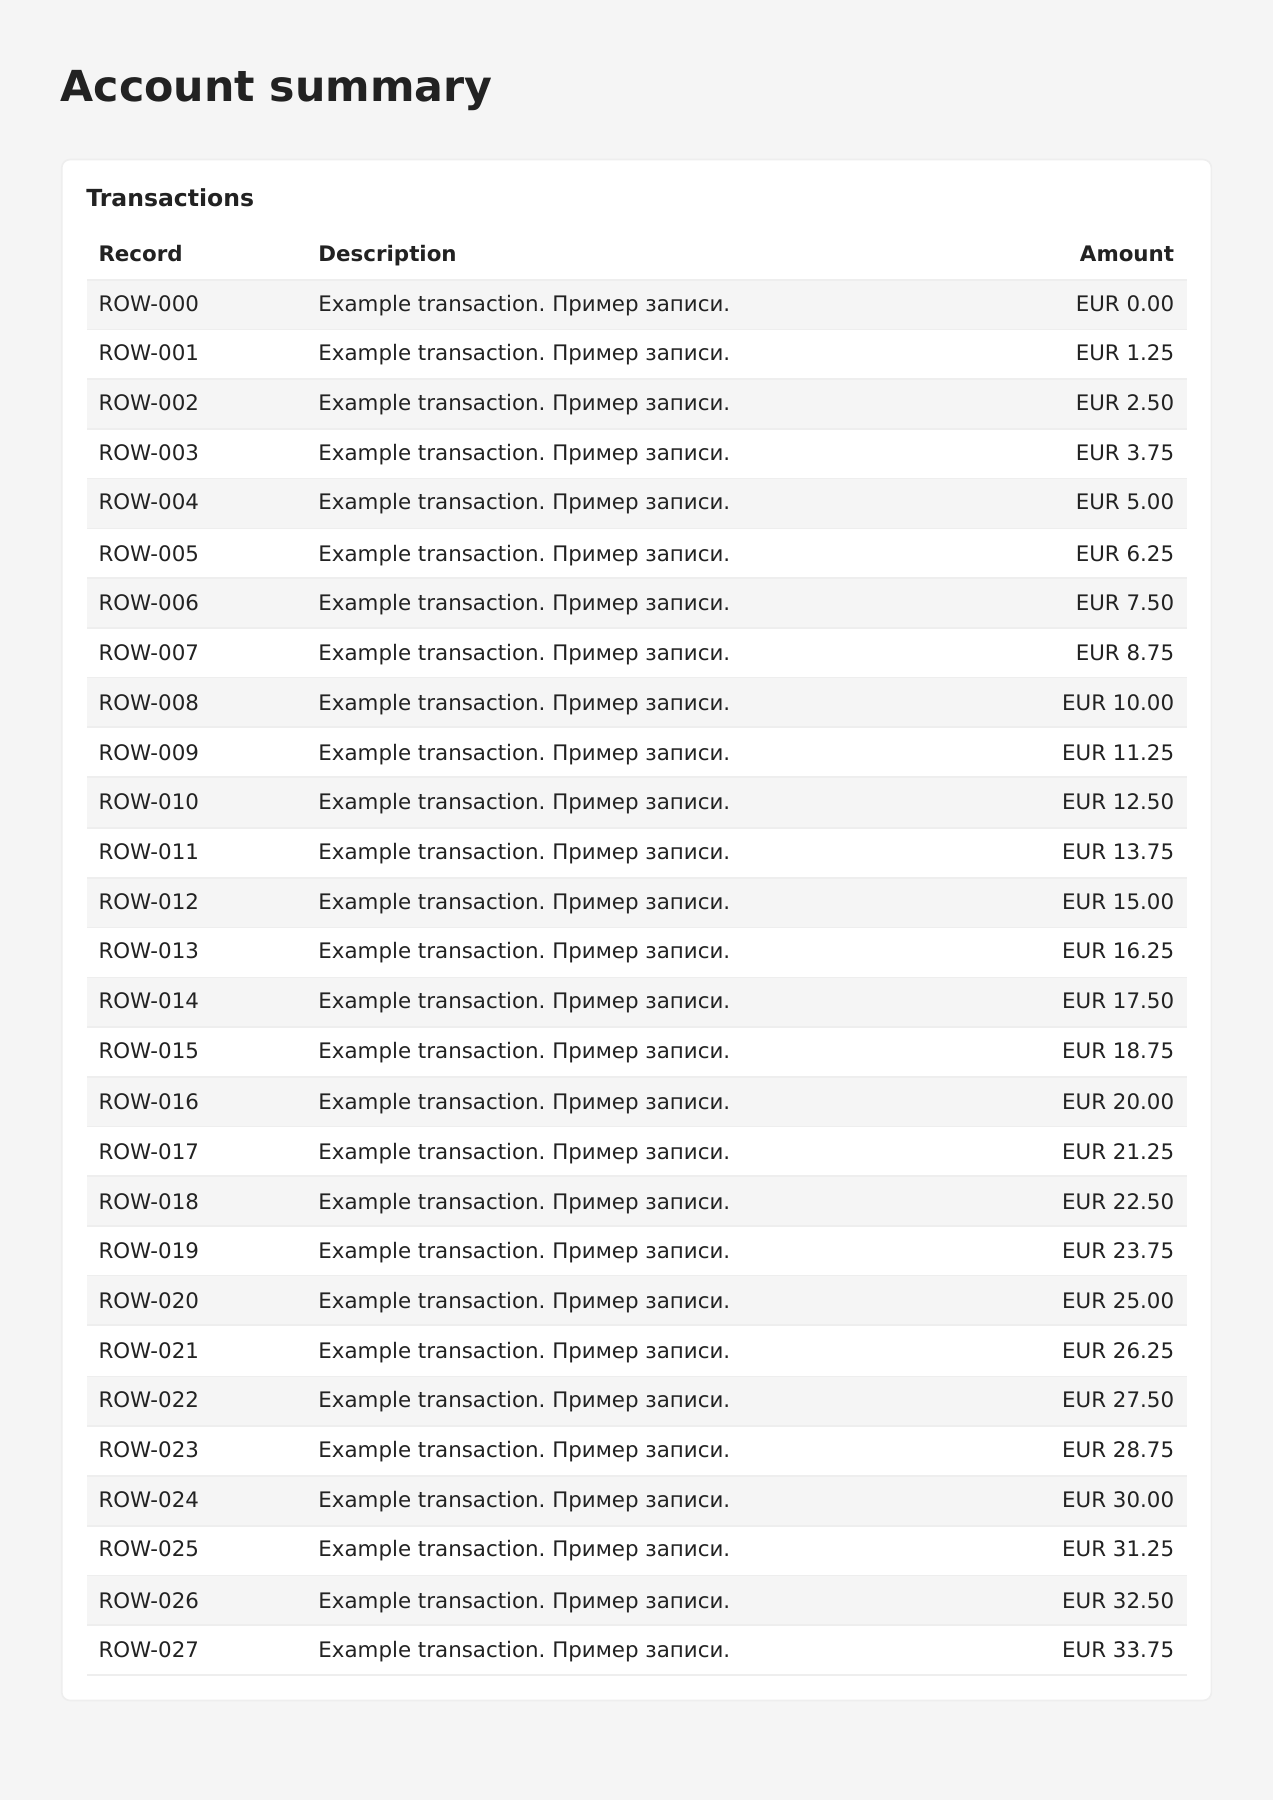
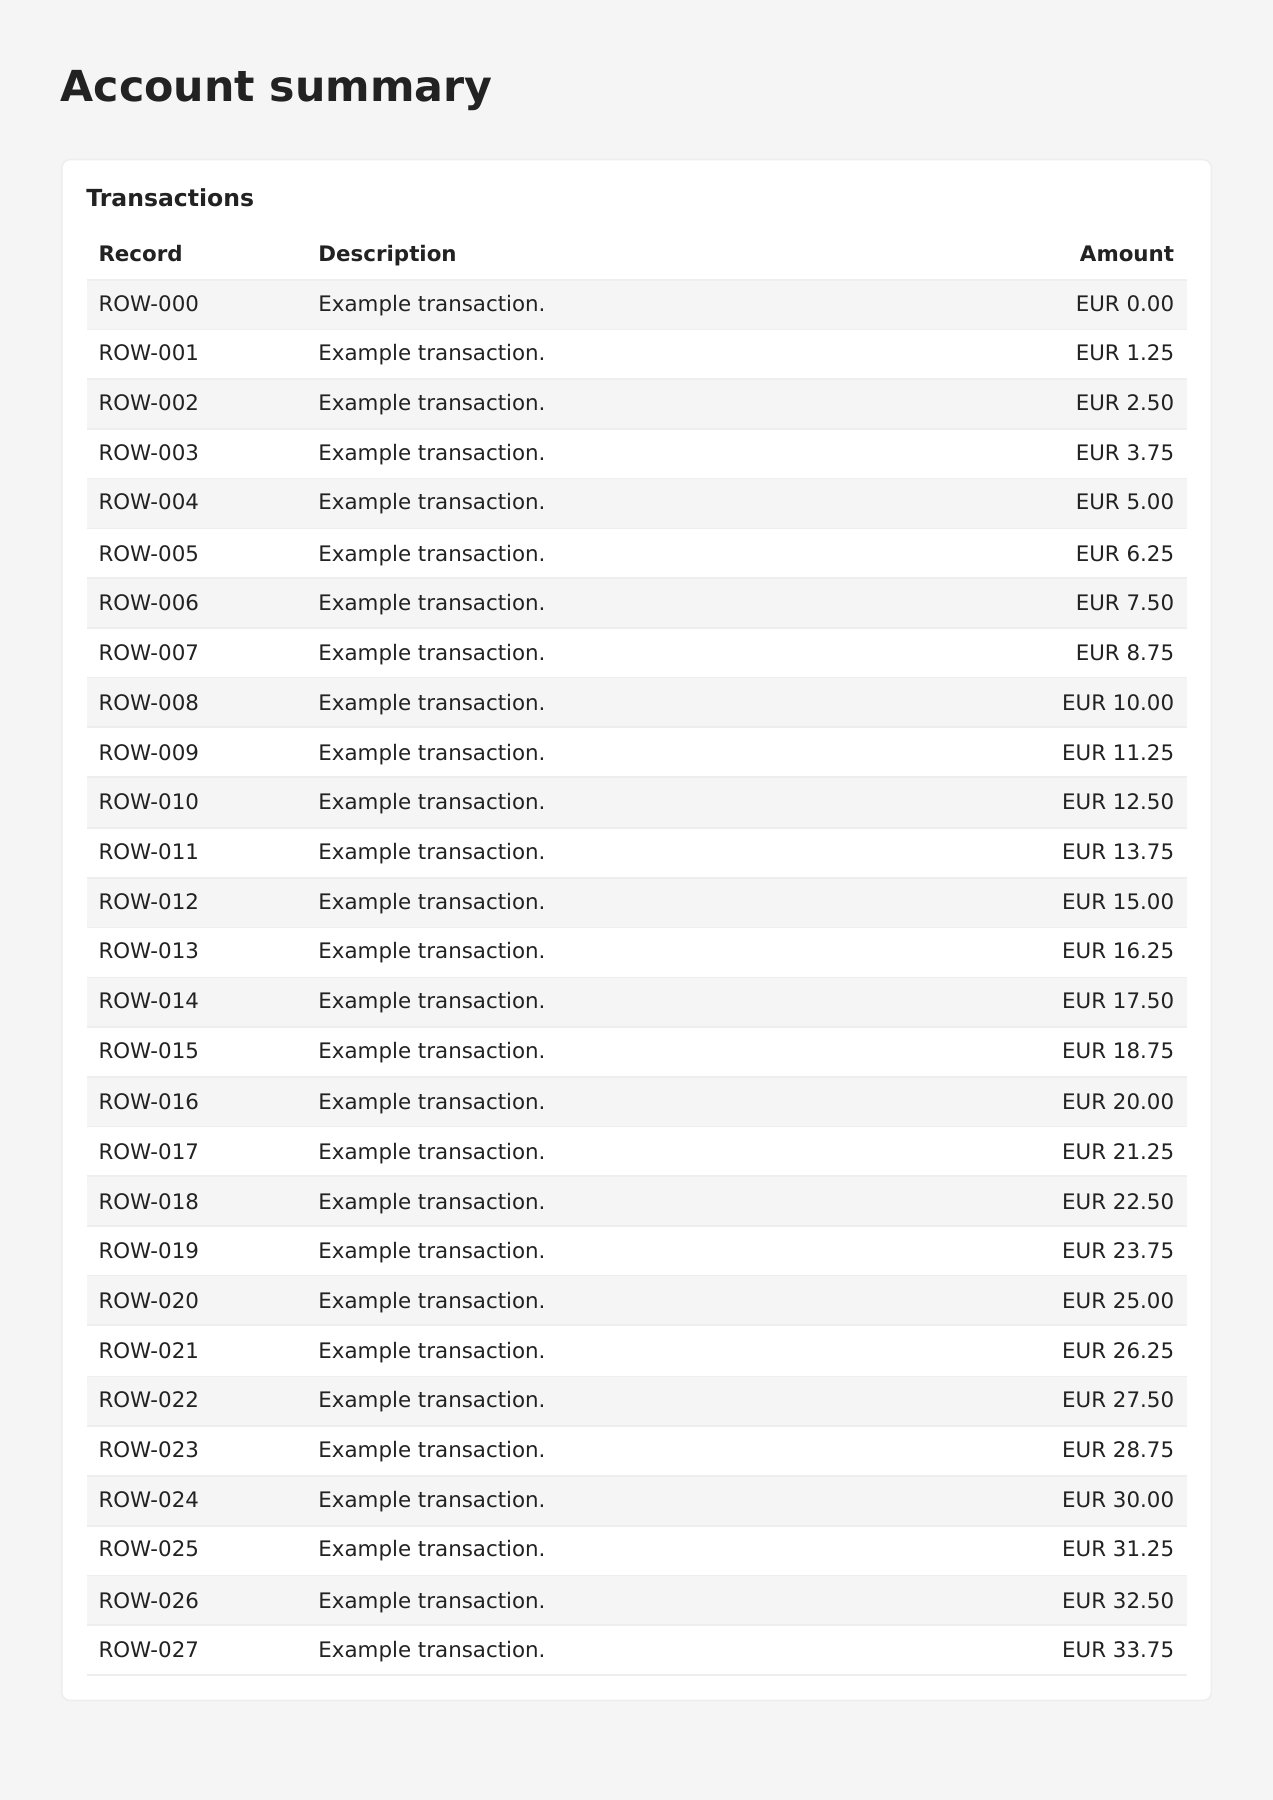
Use English text in examples and documentation

Changed region(s): [[0.4289, 0.1556, 0.5515, 0.9333]]

diff --git a/experiments/rendering/compare.py b/experiments/rendering/compare.py
@@ -16,7 +16,7 @@ OUT.mkdir(parents=True, exist_ok=False)
 plt.rcParams["svg.fonttype"] = "none"
 plt.rcParams["font.family"] = "DejaVu Sans"
 fig, ax = plt.subplots(figsize=(5, 2.5))
-ax.barh(["Attempted", "Answered", "Обещания"], [21, 5, 2], color="#20a6c4")
+ax.barh(["Attempted", "Answered", "Promises"], [21, 5, 2], color="#20a6c4")
 fig.tight_layout()
 s = io.StringIO(); fig.savefig(s, format="svg"); plt.close(fig)
 svg=s.getvalue();svg=svg[svg.index("<svg"):]
@@ -25,7 +25,7 @@ style = """@page {size:A4 landscape;margin:10mm} body{font:12px sans-serif}
 .probe{width:25mm;height:10mm;border:1px solid red} table{width:100%;border-collapse:collapse}
 th,td{padding:3mm;border-bottom:1px solid #ddd} tr{break-inside:avoid} thead{display:table-header-group}"""
 normal = f"<div class=row><div class=card>Clients: 21<br>Answered: 5<br>Promises: 2</div><div class=card>{svg}</div></div>"
-overflow = "<div id=overflow class=probe>" + "Long wrapped label Пример "*30 + "</div>"
+overflow = "<div id=overflow class=probe>" + "Long wrapped label example "*30 + "</div>"
 flow = "<table><thead><tr><th>Identity</th><th>Value</th></tr></thead><tbody>"+"".join(f"<tr><td>ROW-{i:03d}</td><td>Example row</td></tr>" for i in range(120))+"</tbody></table>"
 results={}
 for name,body in [("normal",normal),("overflow",overflow),("flow",flow)]:
@@ -40,7 +40,7 @@ with sync_playwright() as pw:
         page=browser.new_page(viewport={"width":1047,"height":718})
         html=(OUT/f"b-{name}.html").read_text()
         if name=="normal":
-            chart=go.Figure(go.Bar(x=[21,5,2],y=["Attempted","Answered","Обещания"],orientation="h"))
+            chart=go.Figure(go.Bar(x=[21,5,2],y=["Attempted","Answered","Promises"],orientation="h"))
             chart.update_layout(width=300,height=240,font={"family":"DejaVu Sans"},margin={"l":85,"r":20,"t":20,"b":30})
             html=html.replace(svg,chart.to_html(full_html=False,include_plotlyjs=True,config={"staticPlot":True}))
         page.emulate_media(media="print");page.set_content(html)

diff --git a/examples/flow_report.py b/examples/flow_report.py
@@ -20,7 +20,7 @@ def build_report() -> Report:
                 rows=[
                     {
                         "id": f"ROW-{i:03d}",
-                        "description": "Example transaction. Пример записи.",
+                        "description": "Example transaction.",
                         "amount": i * 1.25,
                     }
                     for i in range(120)

diff --git a/docs/user/localization.md b/docs/user/localization.md
@@ -51,8 +51,8 @@ checked against the bundled fonts; unsupported glyphs fail validation.
 Both HTML renderers set `lang`. Both PDF engines write the document `/Lang` metadata;
 this alone is not a PDF accessibility or PDF/UA conformance claim.
 
-Built-in empty table/chart labels are `No data`, `Sin datos` for Spanish and
-`Нет данных` for Russian, selected by the primary language. Other languages use
+Built-in empty table/chart labels have English, Spanish and Russian translations,
+selected by the primary language. Other languages use
 `No data`. Use `Report(empty_text="...")` to supply the application's wording for
 all empty tables/charts. A table's `empty_text` overrides the report; `None` inherits
 and `""` intentionally renders no message. User labels and strings remain literal.

diff --git a/docs/user/api.md b/docs/user/api.md
@@ -216,7 +216,7 @@ allocation. Unsupported font glyphs fail validation. See [limits](#limits).
 ```python
 from cardreport import Text
 
-note = Text("Ready for review\nПример текста", style="caption")
+note = Text("Ready for review\nExample text", style="caption")
 ```
 
 ## KPI
